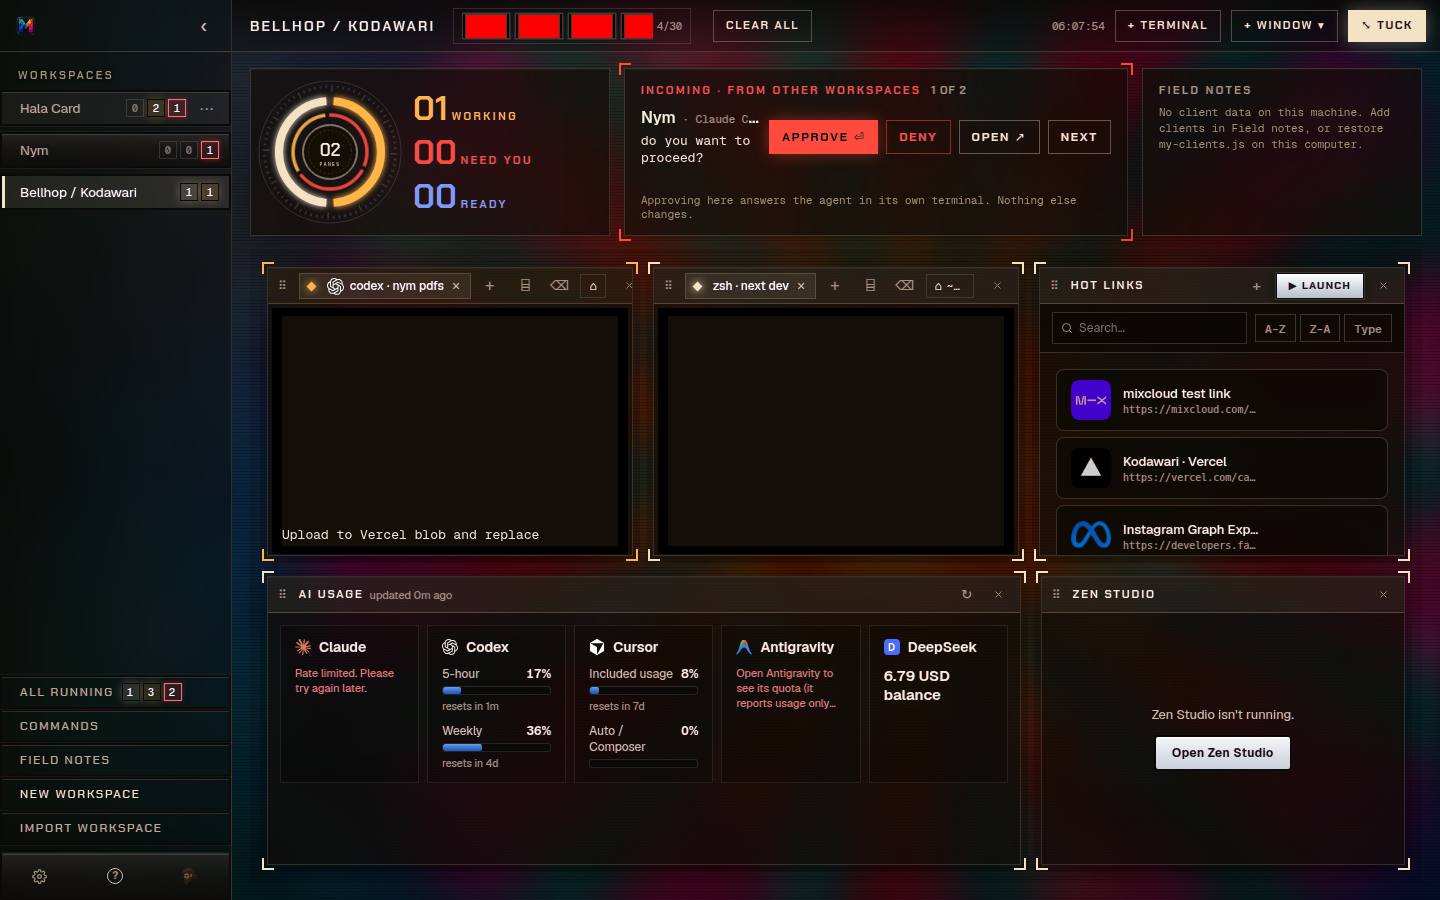
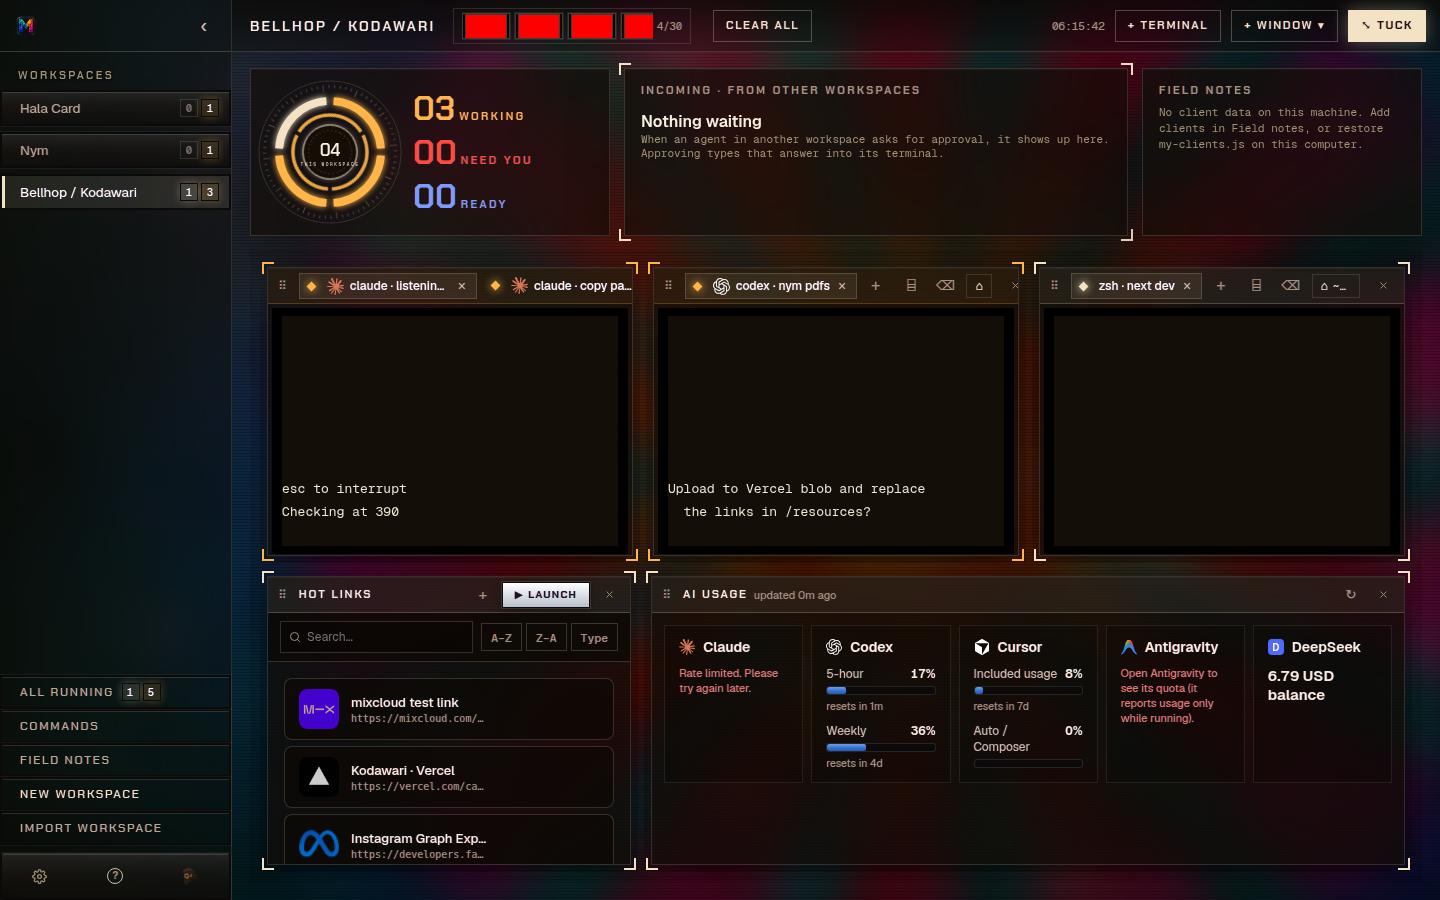
Update the redesign QA for header-only approvals and the log-line false positive.
Rechecks the claimed keystrokes and records that option rows without the question are no longer a dialog.

diff --git a/qa/REPORT.md b/qa/REPORT.md
@@ -1,71 +1,48 @@
-# Mosaic redesign QA — round 3
+# Mosaic redesign QA — round 4
 
-**Score: 8/10.** The claimed keystrokes, the full wrapped question, and a ring of 04 beside 02/01/00 all check out. A screen that merely ends in numbered Yes/No lines still opens the red card, so this is not a 9.
+**Score: 8/10.** Header-only Approve and Deny stay disabled, the 3-option Deny is `3\r`, the log-line false positive is gone, and the ring says THIS WORKSPACE. A real Codex menu whose question has scrolled off the last 24 lines is no longer a dialog, so this is not a 9.
 
-Rechecked `180d0ac` on `cursor/mosaic-redesign-6c1c` after rebasing `qa/mosaic-redesign-review`. Vite, Tauri stubbed, prompts written through `pty-data`, 1440×900. `npm test` is 7/7. `npx tsc --noEmit` passed. `cargo +stable check` passed. `cargo +stable test` passed (`gallery_filters_sorts_and_limits_to_thirty`).
+Rechecked `fd79cb5`. Vite, Tauri stubbed, prompts through `pty-data`, 1440×900. `npm test` 7/7. `tsc --noEmit` passed. `cargo +stable check` passed. `cargo +stable test` passed.
 
 ## Verified
 
 | Claim | Result |
 | --- | --- |
-| Claude 2-option | `1. Yes` / `2. No, and tell Claude what to do differently` → Approve `1\r`, Deny `2\r`. |
-| Claude 3-option | `1. Yes` / `2. Yes, and don't ask again` / `3. No, and tell Claude what to do differently` → Approve `1\r`, Deny `3\r`. Live Deny on Nym wrote `3\r` and the queue became Nothing waiting. `qa/screenshots/app-after-deny.png`. |
-| Options in another order | `1. No…` / `2. Yes, and don't ask again` / `3. Yes` → Approve `3\r`, Deny `1\r`. |
-| Four options | Deny is the first label that starts with No (`3\r`), not the later `4. No, and stop`. |
-| `Yes, don't ask again` without "and" | Still not treated as the plain Yes. Deny stays `3\r`. |
-| Wrapped Allow Bash | Card text is the full `Allow Bash(rm -rf public/old-icons)?`, not `)?`. Approve on that header-only prompt wrote `1\r`. `qa/screenshots/app-bellhop.png`. |
-| Codex upload sentence | Detected. Prompt is the whole sentence. Approve `y\r`, Deny `n\r`. The visible bar's Approve wrote `y\r`. |
-| Codex numbered rows | `1. Yes, proceed` / `2. No, and tell Codex…` → `1\r` / `2\r`, including when the question has scrolled off. A `›` composer under the rows still detects. |
-| Prose "do you want to proceed?" | Alone, and with another sentence after it, state is `unknown`. |
-| Buried answered prompt | After Allow Bash was answered, 36 ordinary lines did not reopen the card. Painting the question at the bottom again did. |
-| Two agents at once | Incoming read "1 of 2". Approving Hala left Nym's "Do you want to proceed?". `qa/screenshots/app-after-approve.png`. |
-| Ring | Four terminal tabs, statuses 2 working / 1 need-you / 1 shell: center **04**, labels **02 Working / 01 Need you / 00 Ready**. That is the accepted call, and the two sides are consistent with each other. The count is tabs, not panes: `terminalPanes` adds `panel.tabs.length` (`src/lib/approvals.ts:54-58`). Two tabs in one pane count as two. |
-| Usage age | Header reads `updated 0m ago`. |
-| Regressions | Chips `#F3E2C4` / `#FFB547` / `#FF4A3D`. Idle label, All Running toggles back. Five usage cards on one row. Commands heat table, postgres search. ⌸ and ⌫. No folder glyph. Hot links search, A–Z, Launch (4 `open_path`s). Tab rename. Drag onto Hala. Zen Studio panel ("Zen Studio isn't running"). Field notes files absent, no fake 92/133, and this commit does not touch them. |
+| Header-only Allow | Card shows the full `Allow Bash(rm -rf public/old-icons)?`. Approve and Deny are `disabled`, titles "Waiting until the Yes/No row is visible". Clicking Deny wrote nothing. `qa/screenshots/app-bellhop.png`. |
+| Rows then Deny | After `1. Yes` / `2. Yes, and don't ask again` / `3. No, and tell Claude…` both buttons enabled. Deny wrote `3\r`. Queue became Nothing waiting. `qa/screenshots/app-after-deny.png`. |
+| `Allow WebFetch?` | Attention, Approve and Deny null until rows exist. With `1. Yes` / `2. No`, keys are `1\r` / `2\r`. |
+| Wrapped Allow | Prompt is `Allow Bash(rm -rf public/old-icons)?`. No guessed number. |
+| Codex upload | Full sentence, `y\r` / `n\r`. The visible bar's Approve was enabled and wrote `y\r`. |
+| Codex numbered, question on screen | `Would you like to run / make the following edits / grant these permissions` → `1\r` / `2\r`. A `›` under the rows still detects. |
+| Claude 2-option, reordered, 4-option | Deny is the first label that starts with No. `Yes, and don't ask again` is not that label. |
+| `1. Yes we shipped the patch` / `2. No issues found in CI` | Not attention, including with `From the handbook:` above it. Written into Nym's terminal: the card stayed Nothing waiting. |
+| Plain prose | `I already asked do you want to proceed? The user said yes yesterday.` is `unknown`. |
+| Antigravity | Full sentence visible. Client height equals scroll height (59px). Line clamp is gone (`UsagePanel.css`). |
+| Ring caption | Workspace ring is **THIS WORKSPACE**. Four tabs, 2 working / 1 need-you / 1 shell: center **04**, labels **02 / 01 / 00**. |
+| Tests | Still 7. The 3-option Deny `3\r` assertion is test 2 (already there). Header-only null keys are tests 4 and 5. `Yes we shipped` / `No issues found` is test 7 (`tests/agents.test.ts:76-82`). That test replaced the old one that required scrolled-off option rows to be a dialog. |
 
-## Allow Bash / Allow WebFetch with no numbers
-
-The code does what was claimed: no numbered rows, and the line matches `allow <name>`, so Approve is `1\r` and Deny is `2\r` (`src/lib/agents.ts:308-311`).
-
-That Approve key matches Claude Code's first option. The Deny key does not match Claude's usual menu. The dialog that actually ships is three options: 1 Yes, 2 Yes and don't ask again, 3 No. A header-only frame has not shown those rows yet, and Deny `2` is the don't-ask-again Yes, which is the round-2 bug in the case where the rows are missing. Deny `2` is right only for a two-option menu. Once the rows are on screen, the No line is chosen (verified `3\r`).
+Regressions that still pass: chips `#F3E2C4` / `#FFB547` / `#FF4A3D`, Idle, All Running toggle, five usage cards, `updated 0m ago`, heat table, ⌸ / ⌫, no folder glyph, hot links search / sort / launch, tab rename, drag onto Hala, Zen panel, absent field-notes files. ANSI around Allow Bash plus a 2-option menu is `1\r` / `2\r`. A buried Allow header under 30 lines stays `running`.
 
 ## Still broken
 
-### P2 — A trailing Yes/No list is a dialog, even in prose or a log
+### P2 — Option rows alone are no longer a dialog
 
-`choicesAtEnd` (`src/lib/agents.ts:154-169`) treats the screen as attention when the bottom lines are numbered, one label starts with "yes" (and is not "don't ask again"), and another starts with "no".
+`detectScreenState` only returns attention from `permissionAtEnd` (`src/lib/agents.ts:224`). A permission header has to be inside the last 24 lines.
 
-Both of these light the card and offer `1\r` / `2\r`:
+`1. Yes, proceed` / `2. No, and tell Codex what to do` with the question scrolled off is `unknown`. Round 3 treated that as a live Codex menu, and the previous test required it. Test 7 now asserts the opposite (`tests/agents.test.ts:81-82`).
 
-- `The handbook shows an example of do you want to proceed?` followed by `1. Yes` / `2. No, and tell Claude what to do differently`.
-- `1. Yes we shipped the patch` / `2. No issues found in CI`, with no permission question at all. The card title is then "Waiting for approval".
+`1. Yes we shipped` / `2. No issues found` should stay quiet, and it does. The real permission labels can be told apart from that log. Expected: rows whose labels are `Yes`, `Yes, proceed`, or `No, and tell Codex/Claude` still arm the bar when the question has left the window. A status log does not.
 
-The second one was also written into Nym's live terminal and opened the incoming card (`qa/screenshots/app-ring.png`).
-
-Expected: a permission dialog, or option rows whose labels are the real choices (`Yes`, `No, and tell Claude…`). A status log or a handbook example stays quiet.
-
-### P2 — Header-only Deny is hard-coded to 2
-
-`src/lib/agents.ts:311`. Expected: Deny waits until a line that starts with No is on screen, then sends that number. On Claude's three-option menu that number is 3, not 2.
-
-### P3 — Antigravity line is still clipped
-
-Not claimed fixed. The card's note is line-clamped (`src/components/UsagePanel.css:112-120`). Measured client height 45px against a scroll height of 59px, so "Open Antigravity to see its quota (it reports usage only while running)." is cut to "…usage only." Expected: the full sentence, as on the guide's usage card.
-
-### P3 — The ring caption says PANES
-
-The guide's caption is THIS WORKSPACE. The workspace ring and All Running both say PANES (`src/components/WorkspaceDashboard.tsx:73`, `src/components/AllRunningView.tsx:65`). The number under it is the tab count described above.
+A handbook line that quotes the real menu (`do you want to proceed?` and then `1. Yes` / `2. No, and tell Claude…`) is still attention, because that string is the dialog. The shipped/issues handbook in the test is not.
 
 ## Needs a Mac
 
-A live Claude or Codex TUI accepting the keystroke (including a header-only frame before the option rows paint), real provider logins, Tuck's window geometry and always-on-top, `sips` thumbnails, the Desktop permission URLs, and Zen Studio actually listening on port 3003. The panel itself renders and offers Open.
+A live Claude or Codex TUI accepting the keystroke, including the moment before the option rows paint, real provider logins, Tuck's window geometry, `sips` thumbnails, the Desktop permission URLs, and Zen Studio listening on port 3003.
 
 ## Shots
 
-- `qa/screenshots/app-bellhop.png` — Allow Bash card, ring 04, labels 02/01/00, usage `updated 0m ago`
-- `qa/screenshots/app-after-approve.png` — Hala cleared, Nym still queued
-- `qa/screenshots/app-after-deny.png` — Nothing waiting
-- `qa/screenshots/app-ring.png` — prose-plus-options false positive, Zen Studio panel
-- `qa/screenshots/app-all.png` — Idle
-- `qa/screenshots/app-commands.png` — heat table
-- `qa/screenshots/ref-workspace.png` — guide, for the 04 / 02/01/00 comparison
+- `qa/screenshots/app-bellhop.png` — header-only card, ring 04 THIS WORKSPACE, 02/01/00, full Antigravity line
+- `qa/screenshots/app-after-deny.png` — Nothing waiting after Deny `3\r`
+- `qa/screenshots/app-ring.png` — shipped/issues log did not open a card
+- `qa/screenshots/app-all.png` — Idle, center caption LIVE
+- `qa/screenshots/app-commands.png`
